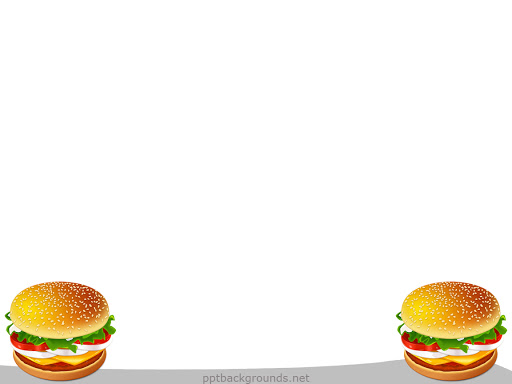
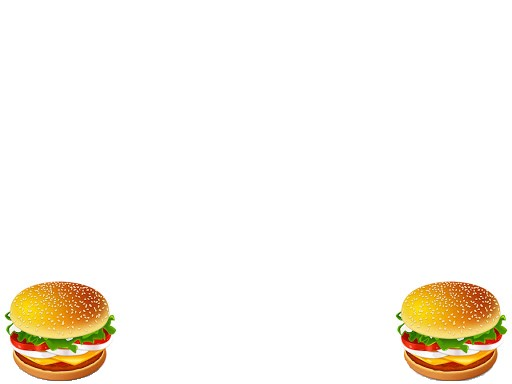
added more styling, still adding more..

Changed region(s): [[0.0, 0.7188, 1.0, 1.0]]

diff --git a/public/assets/css/style.css b/public/assets/css/style.css
@@ -1,5 +1,11 @@
-body {
-    background-image: url("/public/assets/Images/HTMLbackground.jpg");
+html {
+    background-image: url("../Images/HTMLbackground.jpg");
+    /* background-repeat: no-repeat; */
+    /* background-size: cover; */
+    background-position: bottom;
+    height: 100% !important;
+    /* margin: 10px !important; */
+    /* padding: 10px !important; */
 }
 
 li {
@@ -29,10 +35,15 @@ li {
 }
 
 h1 {
+    background-image: URL("../Images/burgers.jpg");
+    background-size: cover !important;
+    /* background-repeat: no-repeat !important; */
     text-align: center;
     padding: 10px;
     margin-bottom: 80px !important;
-    background: teal;
+    max-width: 100%;
+    height: auto;
+    color: white;
 }
 
 h2 {
